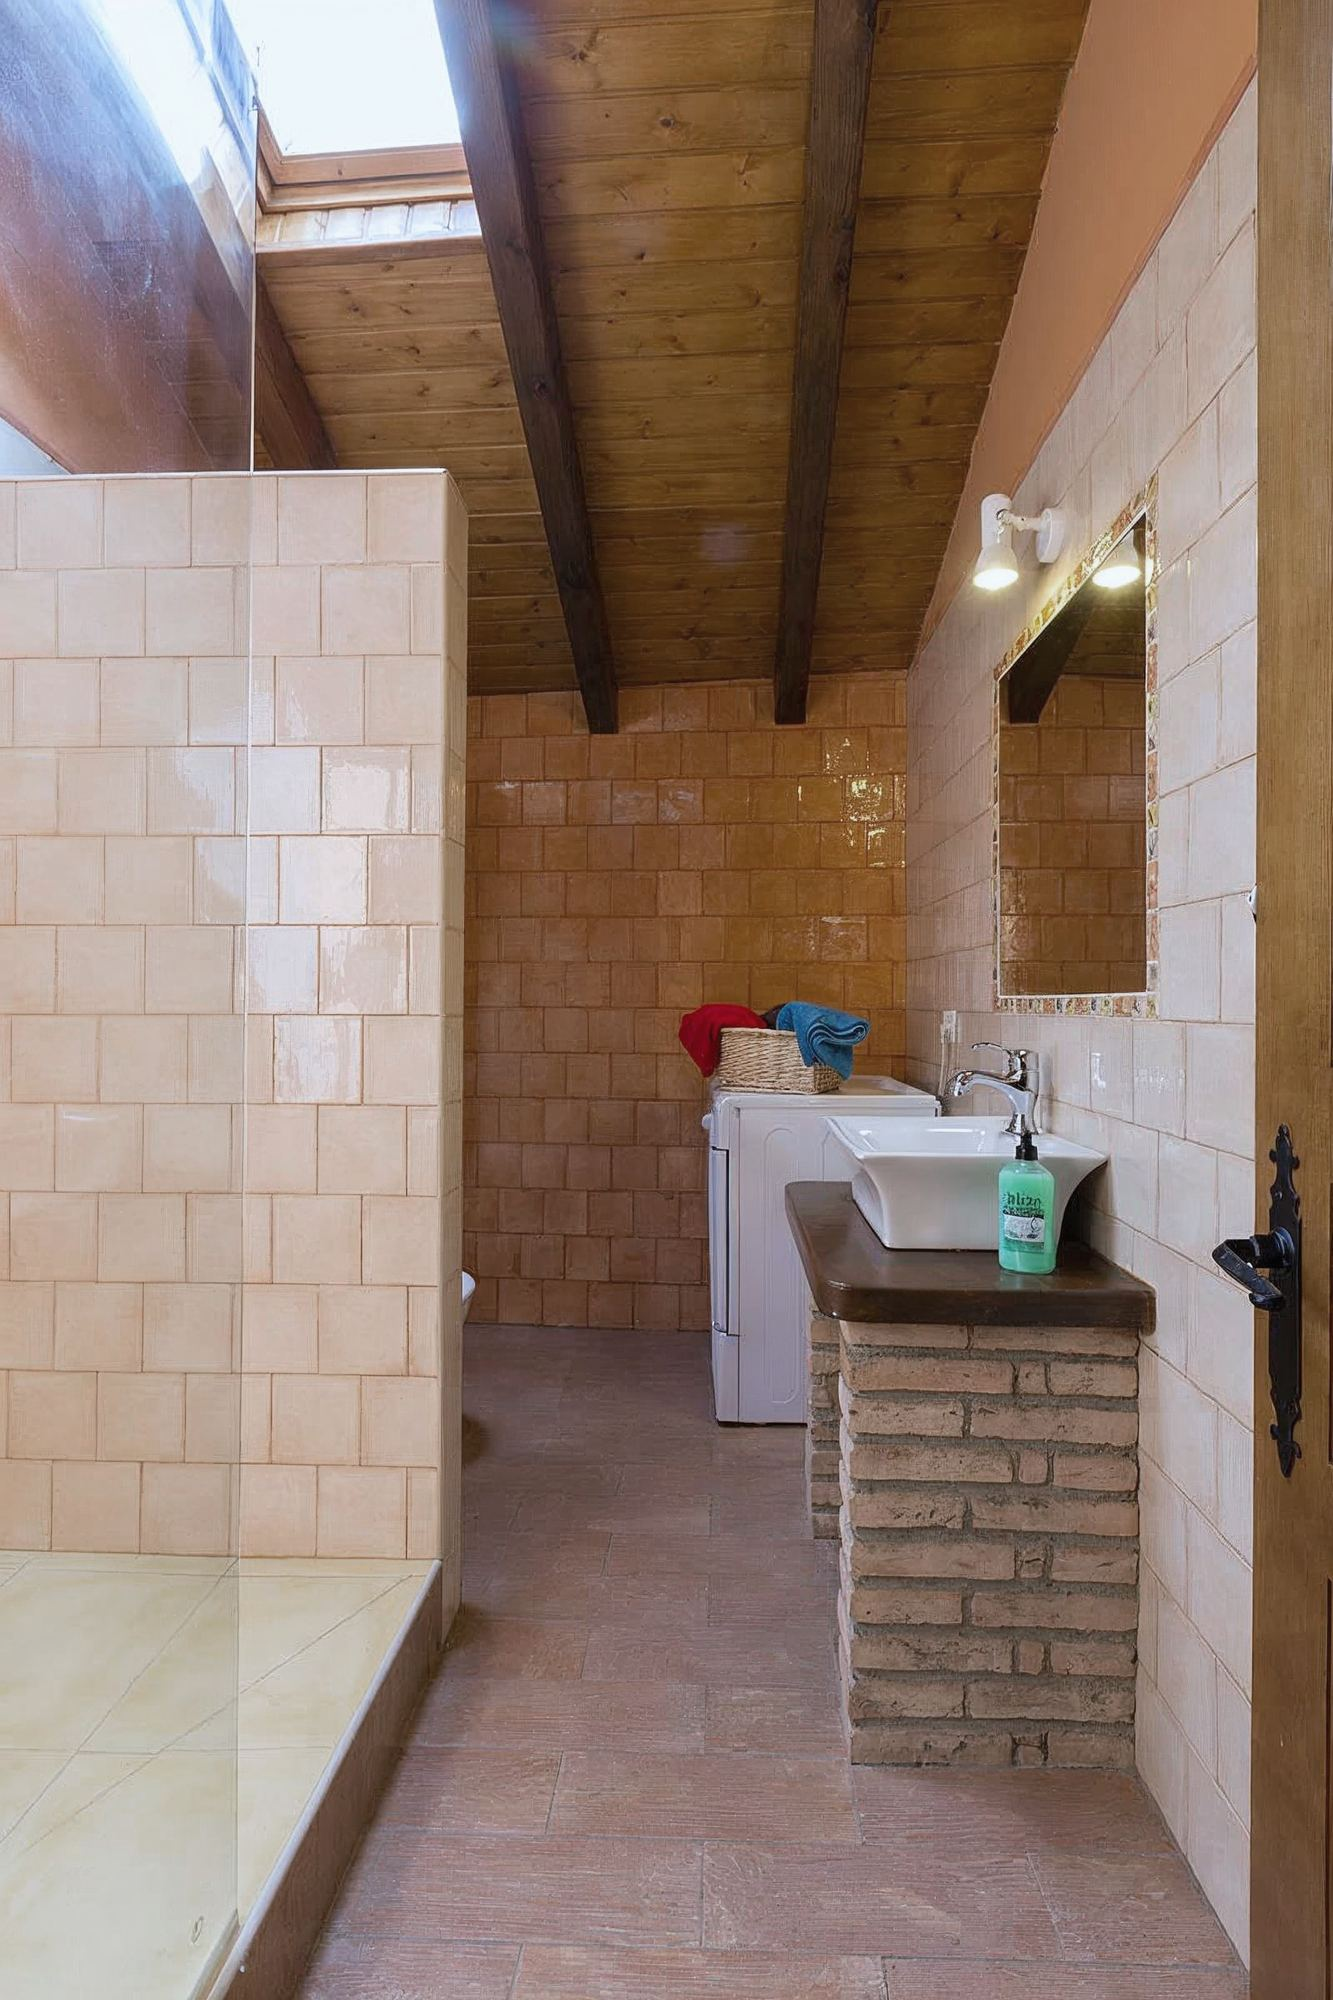
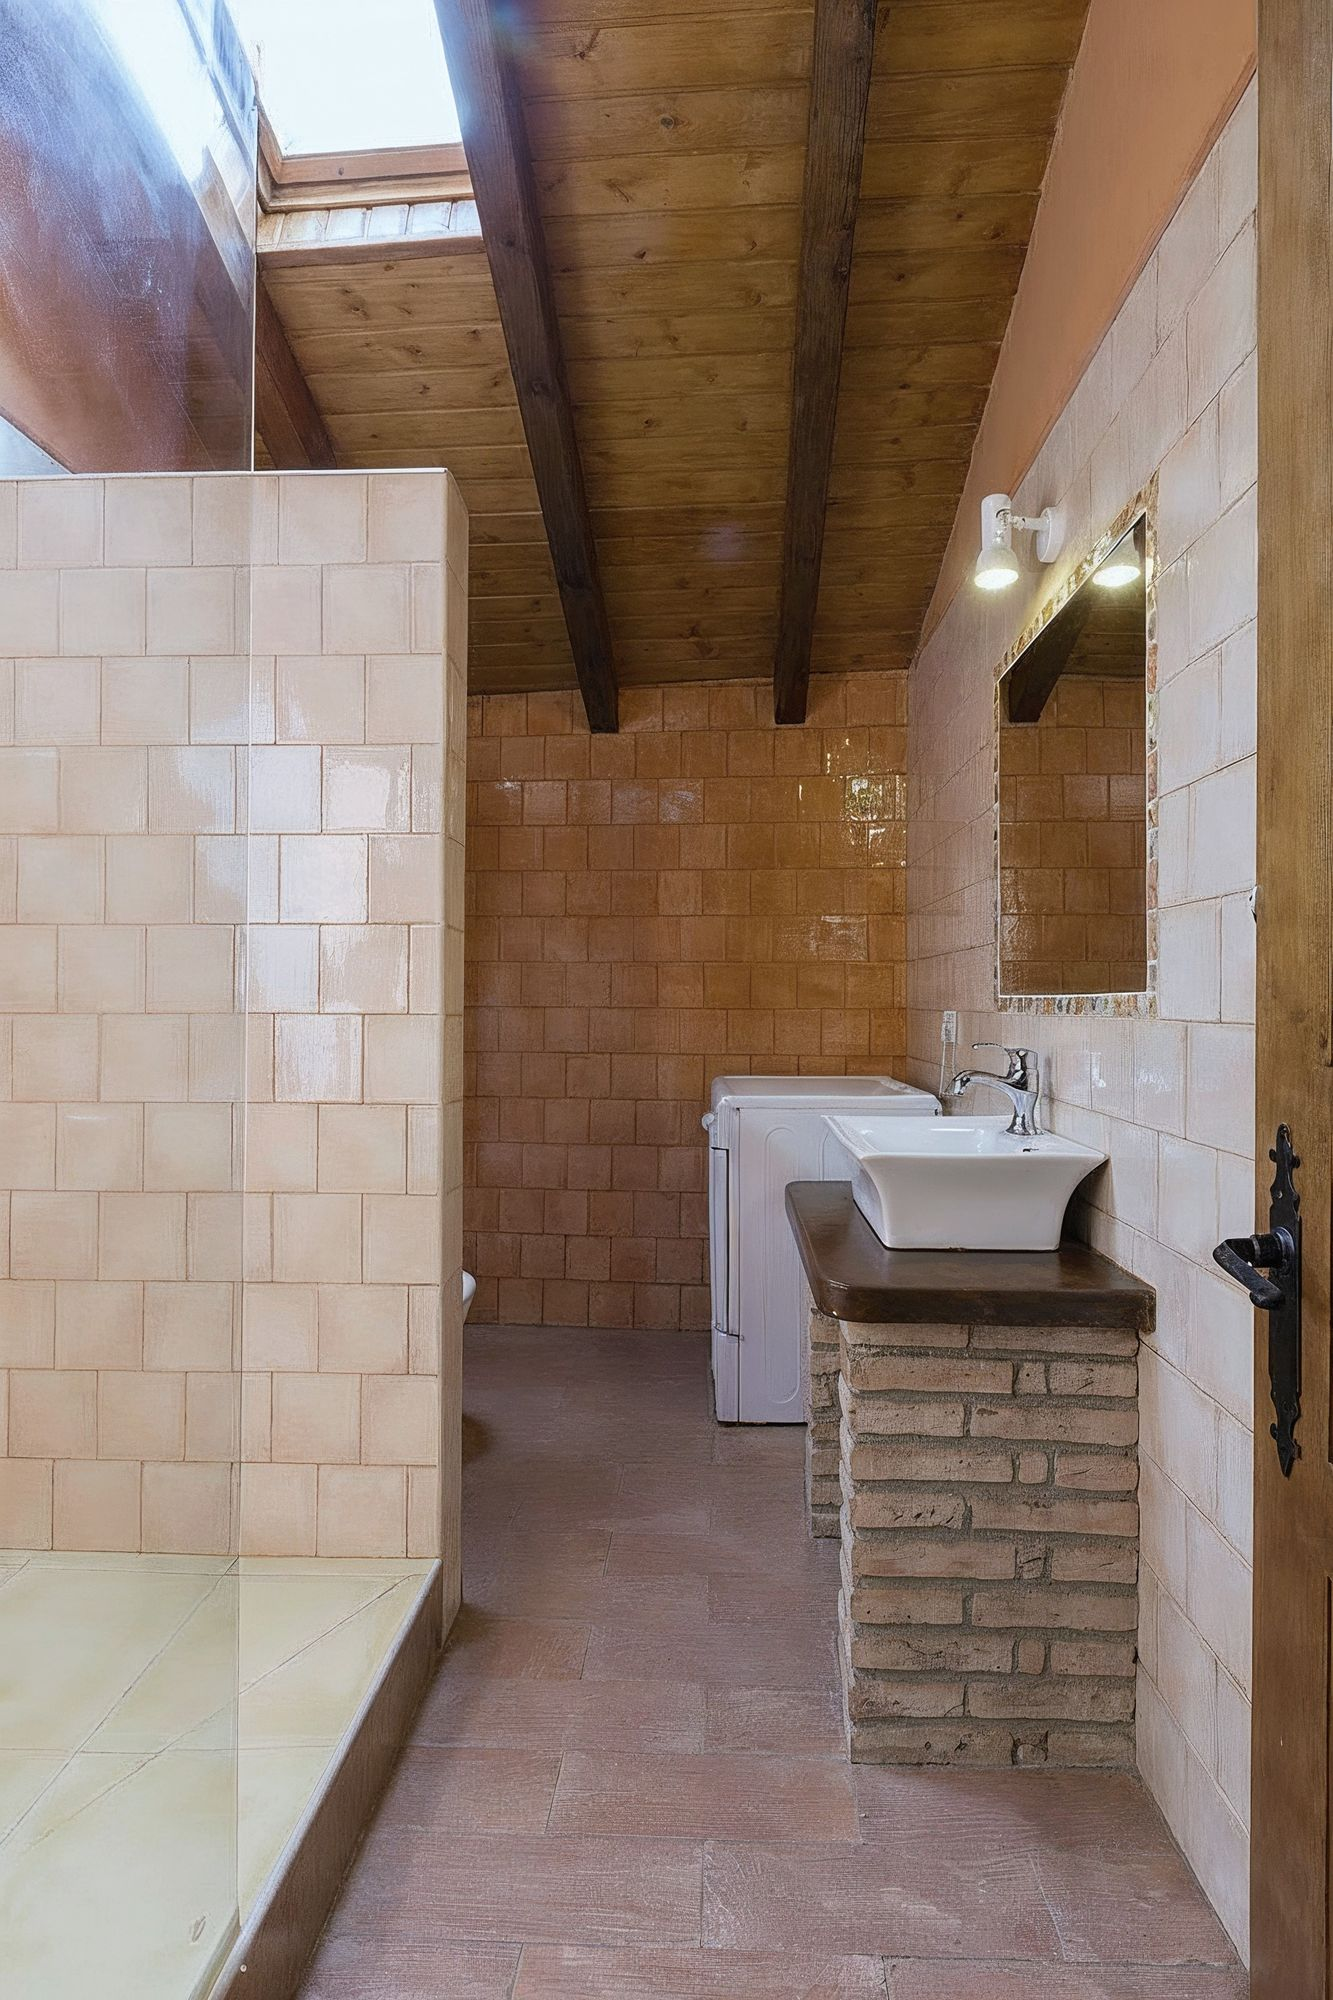
Cambios del cliente: colores de pared, objetos retirados, capacidades y fotos del jardín
- Paredes en tonos muy claros por casa (Piedrafita verde, La Laguna azul grisáceo,
  Coto Bello beige) y blanco sobre los azulejos de los baños.
- Quitados jabones, cestas, botella de sidra, cenicero y comida de la cocina.
- Capacidades: La Laguna 5, Coto Bello 7. Finca de más de 4.000 m².
- Fuera del equipamiento: fuente propia y diana de tiro con arco.
- Bloque de fotos del jardín en las fichas.
- Rutas de las herramientas actualizadas a ~/Proyectos.

diff --git a/casa-ii.html b/casa-ii.html
@@ -4,7 +4,7 @@
   <meta charset="utf-8">
   <meta name="viewport" content="width=device-width, initial-scale=1">
   <title>La Laguna (Casa II) | El Mirador de Llananzanes</title>
-  <meta name="description" content="La Laguna: casa rural de 90 m² para hasta 7 personas en Llananzanes, Aller (Asturias). Dos habitaciones, dos baños, estufa de leña y vistas a los valles.">
+  <meta name="description" content="La Laguna: casa rural de 90 m² para hasta 5 personas en Llananzanes, Aller (Asturias). Dos habitaciones, dos baños, estufa de leña y vistas a los valles.">
   <meta name="robots" content="noindex">
   <meta name="theme-color" content="#15201a">
   <link rel="icon" href="assets/img/El-Mirador-de-Llananzanes-favicon.png">
@@ -77,7 +77,7 @@
       </div>
       <div class="hero__side">
         <ul class="cfacts">
-          <li><span>Capacidad</span>Hasta 7 personas</li>
+          <li><span>Capacidad</span>Hasta 5 personas</li>
           <li><span>Superficie</span>90 m² en dos plantas</li>
           <li><span>Habitaciones</span>2, de 20 m²</li>
           <li><span>Baños</span>2 completos</li>
@@ -95,9 +95,9 @@
     <div class="watermark" aria-hidden="true"></div>
     <section class="cintro">
       <div class="wrap">
-        <h2 class="reveal">Espacio para siete, <em>con la estufa encendida.</em></h2>
+        <h2 class="reveal">Espacio para cinco, <em>con la estufa encendida.</em></h2>
         <div class="reveal" style="--d:.1s">
-          <p>Dos plantas con techos abovedados de madera y grandes ventanales a las montañas, los valles y el bosque de castaños. Un salón amplio alrededor de la estufa de leña y sitio para siete.</p>
+          <p>Dos plantas con techos abovedados de madera y grandes ventanales a las montañas, los valles y el bosque de castaños. Un salón amplio alrededor de la estufa de leña y sitio para cinco.</p>
         </div>
       </div>
     </section>
@@ -172,7 +172,7 @@
     <div class="wrap">
       <div class="reveal">
         <h2 id="equip-t">Llegar y <em>no echar nada en falta.</em></h2>
-        <p class="equip__lead">La casa está equipada por completo. Fuera, una finca de más de 3.000 m² compartida entre las tres casas.</p>
+        <p class="equip__lead">La casa está equipada por completo. Fuera, una finca de más de 4.000 m² compartida entre las tres casas.</p>
       </div>
       <div class="equip__cols reveal" style="--d:.1s">
         <div>
@@ -193,12 +193,19 @@
             <li>Aparcamiento privado</li>
             <li>Zona de barbacoa</li>
             <li>Zonas verdes y bancos</li>
-            <li>Fuente propia</li>
-            <li>Diana de tiro con arco</li>
             <li>Rutas desde la puerta</li>
           </ul>
         </div>
       </div>
+    </div>
+  </section>
+
+  <!-- La finca: fotos del jardín -->
+  <section class="finca tone-night" aria-label="La finca">
+    <div class="wrap finca__grid">
+      <figure class="fig finca__a reveal"><div class="fig__img"><img src="assets/img/jardin-mesa-larga.jpg" alt="Jardín de la finca con mesa larga y bancos de madera junto a los postes de roble" loading="lazy"></div><figcaption><b>La finca</b><span>Mesa de madera junto al bosque</span></figcaption></figure>
+      <figure class="fig finca__b reveal" style="--d:.1s"><div class="fig__img"><img src="assets/img/jardin-mesa-vertical.jpg" alt="Mesa de piedra y bancos de tronco frente al valle de Aller" loading="lazy"></div><figcaption><b>El mirador</b><span>Frente al valle</span></figcaption></figure>
+      <figure class="fig finca__c reveal"><div class="fig__img"><img src="assets/img/jardin-mesa-horizontal.jpg" alt="Rincón del jardín con mesa de piedra y valla de madera, con las montañas al fondo" loading="lazy"></div><figcaption><b>Zonas verdes</b><span>Más de 4.000 m²</span></figcaption></figure>
     </div>
   </section>
 
@@ -238,7 +245,7 @@
             <h3>Coto Bello</h3>
             <a class="link-arrow house__link" href="casa-iii.html">Ver Coto Bello <svg class="icon" aria-hidden="true"><use href="assets/icons/sprite.svg#arrow-up-right"/></svg></a>
             <ul>
-              <li><svg class="icon" aria-hidden="true"><use href="assets/icons/sprite.svg#users"/></svg>Hasta 9 personas</li>
+              <li><svg class="icon" aria-hidden="true"><use href="assets/icons/sprite.svg#users"/></svg>Hasta 7 personas</li>
               <li>90 m²</li>
             </ul>
           </div>

diff --git a/casa-iii.html b/casa-iii.html
@@ -4,7 +4,7 @@
   <meta charset="utf-8">
   <meta name="viewport" content="width=device-width, initial-scale=1">
   <title>Coto Bello (Casa III) | El Mirador de Llananzanes</title>
-  <meta name="description" content="Coto Bello: casa rural de 90 m² para hasta 9 personas en Llananzanes, Aller (Asturias). Dos habitaciones, dos baños, estufa de leña y vistas a los valles.">
+  <meta name="description" content="Coto Bello: casa rural de 90 m² para hasta 7 personas en Llananzanes, Aller (Asturias). Dos habitaciones, dos baños, estufa de leña y vistas a los valles.">
   <meta name="robots" content="noindex">
   <meta name="theme-color" content="#15201a">
   <link rel="icon" href="assets/img/El-Mirador-de-Llananzanes-favicon.png">
@@ -77,7 +77,7 @@
       </div>
       <div class="hero__side">
         <ul class="cfacts">
-          <li><span>Capacidad</span>Hasta 9 personas</li>
+          <li><span>Capacidad</span>Hasta 7 personas</li>
           <li><span>Superficie</span>90 m² en dos plantas</li>
           <li><span>Habitaciones</span>2, de 20 m²</li>
           <li><span>Baños</span>2 completos</li>
@@ -97,7 +97,7 @@
       <div class="wrap">
         <h2 class="reveal">Un balcón <em>sobre los valles asturianos.</em></h2>
         <div class="reveal" style="--d:.1s">
-          <p>Dos plantas con techos abovedados de madera y grandes ventanales a las montañas, los valles y el bosque de castaños. La más capaz de las tres: sitio para nueve alrededor de la estufa.</p>
+          <p>Dos plantas con techos abovedados de madera y grandes ventanales a las montañas, los valles y el bosque de castaños. Un salón comedor abierto a la cocina y sitio para siete alrededor de la estufa.</p>
         </div>
       </div>
     </section>
@@ -172,7 +172,7 @@
     <div class="wrap">
       <div class="reveal">
         <h2 id="equip-t">Llegar y <em>no echar nada en falta.</em></h2>
-        <p class="equip__lead">La casa está equipada por completo. Fuera, una finca de más de 3.000 m² compartida entre las tres casas.</p>
+        <p class="equip__lead">La casa está equipada por completo. Fuera, una finca de más de 4.000 m² compartida entre las tres casas.</p>
       </div>
       <div class="equip__cols reveal" style="--d:.1s">
         <div>
@@ -193,12 +193,19 @@
             <li>Aparcamiento privado</li>
             <li>Zona de barbacoa</li>
             <li>Zonas verdes y bancos</li>
-            <li>Fuente propia</li>
-            <li>Diana de tiro con arco</li>
             <li>Rutas desde la puerta</li>
           </ul>
         </div>
       </div>
+    </div>
+  </section>
+
+  <!-- La finca: fotos del jardín -->
+  <section class="finca tone-night" aria-label="La finca">
+    <div class="wrap finca__grid">
+      <figure class="fig finca__a reveal"><div class="fig__img"><img src="assets/img/jardin-mesa-larga.jpg" alt="Jardín de la finca con mesa larga y bancos de madera junto a los postes de roble" loading="lazy"></div><figcaption><b>La finca</b><span>Mesa de madera junto al bosque</span></figcaption></figure>
+      <figure class="fig finca__b reveal" style="--d:.1s"><div class="fig__img"><img src="assets/img/jardin-mesa-vertical.jpg" alt="Mesa de piedra y bancos de tronco frente al valle de Aller" loading="lazy"></div><figcaption><b>El mirador</b><span>Frente al valle</span></figcaption></figure>
+      <figure class="fig finca__c reveal"><div class="fig__img"><img src="assets/img/jardin-mesa-horizontal.jpg" alt="Rincón del jardín con mesa de piedra y valla de madera, con las montañas al fondo" loading="lazy"></div><figcaption><b>Zonas verdes</b><span>Más de 4.000 m²</span></figcaption></figure>
     </div>
   </section>
 
@@ -238,7 +245,7 @@
             <h3>La Laguna</h3>
             <a class="link-arrow house__link" href="casa-ii.html">Ver La Laguna <svg class="icon" aria-hidden="true"><use href="assets/icons/sprite.svg#arrow-up-right"/></svg></a>
             <ul>
-              <li><svg class="icon" aria-hidden="true"><use href="assets/icons/sprite.svg#users"/></svg>Hasta 7 personas</li>
+              <li><svg class="icon" aria-hidden="true"><use href="assets/icons/sprite.svg#users"/></svg>Hasta 5 personas</li>
               <li>90 m²</li>
             </ul>
           </div>

diff --git a/casa-i.html b/casa-i.html
@@ -172,7 +172,7 @@
     <div class="wrap">
       <div class="reveal">
         <h2 id="equip-t">Llegar y <em>no echar nada en falta.</em></h2>
-        <p class="equip__lead">La casa está equipada por completo. Fuera, una finca de más de 3.000 m² compartida entre las tres casas.</p>
+        <p class="equip__lead">La casa está equipada por completo. Fuera, una finca de más de 4.000 m² compartida entre las tres casas.</p>
       </div>
       <div class="equip__cols reveal" style="--d:.1s">
         <div>
@@ -193,12 +193,19 @@
             <li>Aparcamiento privado</li>
             <li>Zona de barbacoa</li>
             <li>Zonas verdes y bancos</li>
-            <li>Fuente propia</li>
-            <li>Diana de tiro con arco</li>
             <li>Rutas desde la puerta</li>
           </ul>
         </div>
       </div>
+    </div>
+  </section>
+
+  <!-- La finca: fotos del jardín -->
+  <section class="finca tone-night" aria-label="La finca">
+    <div class="wrap finca__grid">
+      <figure class="fig finca__a reveal"><div class="fig__img"><img src="assets/img/jardin-mesa-larga.jpg" alt="Jardín de la finca con mesa larga y bancos de madera junto a los postes de roble" loading="lazy"></div><figcaption><b>La finca</b><span>Mesa de madera junto al bosque</span></figcaption></figure>
+      <figure class="fig finca__b reveal" style="--d:.1s"><div class="fig__img"><img src="assets/img/jardin-mesa-vertical.jpg" alt="Mesa de piedra y bancos de tronco frente al valle de Aller" loading="lazy"></div><figcaption><b>El mirador</b><span>Frente al valle</span></figcaption></figure>
+      <figure class="fig finca__c reveal"><div class="fig__img"><img src="assets/img/jardin-mesa-horizontal.jpg" alt="Rincón del jardín con mesa de piedra y valla de madera, con las montañas al fondo" loading="lazy"></div><figcaption><b>Zonas verdes</b><span>Más de 4.000 m²</span></figcaption></figure>
     </div>
   </section>
 
@@ -227,7 +234,7 @@
             <h3>La Laguna</h3>
             <a class="link-arrow house__link" href="casa-ii.html">Ver La Laguna <svg class="icon" aria-hidden="true"><use href="assets/icons/sprite.svg#arrow-up-right"/></svg></a>
             <ul>
-              <li><svg class="icon" aria-hidden="true"><use href="assets/icons/sprite.svg#users"/></svg>Hasta 7 personas</li>
+              <li><svg class="icon" aria-hidden="true"><use href="assets/icons/sprite.svg#users"/></svg>Hasta 5 personas</li>
               <li>90 m²</li>
             </ul>
           </div>
@@ -238,7 +245,7 @@
             <h3>Coto Bello</h3>
             <a class="link-arrow house__link" href="casa-iii.html">Ver Coto Bello <svg class="icon" aria-hidden="true"><use href="assets/icons/sprite.svg#arrow-up-right"/></svg></a>
             <ul>
-              <li><svg class="icon" aria-hidden="true"><use href="assets/icons/sprite.svg#users"/></svg>Hasta 9 personas</li>
+              <li><svg class="icon" aria-hidden="true"><use href="assets/icons/sprite.svg#users"/></svg>Hasta 7 personas</li>
               <li>90 m²</li>
             </ul>
           </div>

diff --git a/index.html b/index.html
@@ -167,7 +167,7 @@
           <div class="house__meta">
             <h3>La Laguna</h3>
             <ul>
-              <li><svg class="icon" aria-hidden="true"><use href="assets/icons/sprite.svg#users"/></svg>Hasta 7 personas</li>
+              <li><svg class="icon" aria-hidden="true"><use href="assets/icons/sprite.svg#users"/></svg>Hasta 5 personas</li>
               <li>90 m²</li>
             </ul>
             <a class="link-arrow house__link" href="casa-ii.html">Ver La Laguna <svg class="icon" aria-hidden="true"><use href="assets/icons/sprite.svg#arrow-up-right"/></svg></a>
@@ -179,7 +179,7 @@
           <div class="house__meta">
             <h3>Coto Bello</h3>
             <ul>
-              <li><svg class="icon" aria-hidden="true"><use href="assets/icons/sprite.svg#users"/></svg>Hasta 9 personas</li>
+              <li><svg class="icon" aria-hidden="true"><use href="assets/icons/sprite.svg#users"/></svg>Hasta 7 personas</li>
               <li>90 m²</li>
             </ul>
             <a class="link-arrow house__link" href="casa-iii.html">Ver Coto Bello <svg class="icon" aria-hidden="true"><use href="assets/icons/sprite.svg#arrow-up-right"/></svg></a>

diff --git a/assets/styles.css b/assets/styles.css
@@ -504,3 +504,16 @@ html.flat .house__meta h3 { font-size: 64px; }
 }
 .hero--casa .hero__media::after { background: linear-gradient(180deg, rgba(8, 12, 10, .5) 0%, rgba(8, 12, 10, 0) 28%, rgba(8, 12, 10, .25) 50%, rgba(8, 12, 10, .88) 100%), linear-gradient(270deg, rgba(8, 12, 10, .72) 0%, rgba(8, 12, 10, 0) 46%); }
 .cta--casa h2 { max-width: none; } .cta--casa h2 em { display: block; white-space: nowrap; }
+
+/* Fotos de la finca (fichas de casa) */
+.finca { padding: 0 0 clamp(88px, 11vw, 170px); }
+.finca__grid { display: grid; grid-template-columns: 7fr 5fr; gap: clamp(28px, 3vw, 44px) clamp(12px, 1.6vw, 24px); }
+.finca__a .fig__img, .finca__c .fig__img { aspect-ratio: 3 / 2; }
+.finca__b { grid-column: 2; grid-row: 1 / span 2; }
+.finca__b .fig__img { flex: 1; min-height: 0; }
+.finca__b .fig__img img { position: absolute; inset: 0; }
+@media (max-width: 900px) {
+  .finca__grid { grid-template-columns: 1fr; }
+  .finca__b { grid-column: 1; grid-row: auto; }
+  .finca__b .fig__img { flex: none; aspect-ratio: 4 / 5; }
+}
